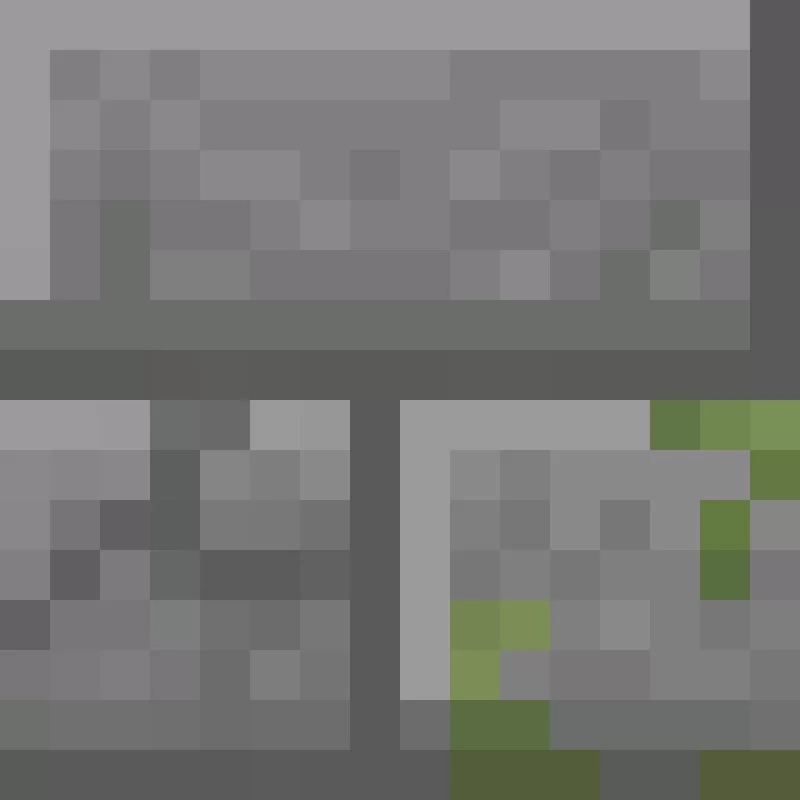
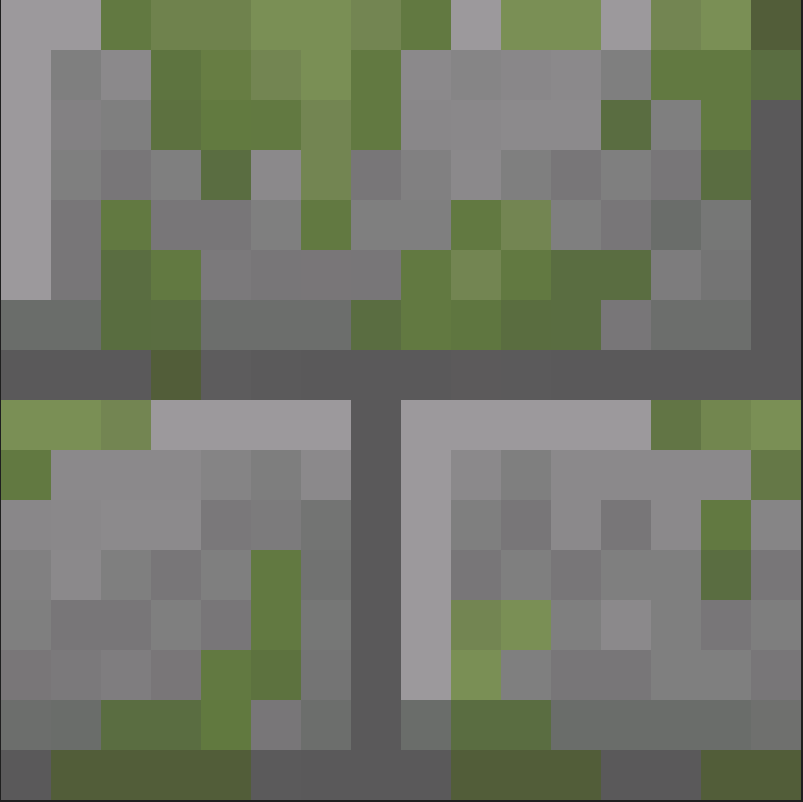
состояние рисуется поверх текстуры

diff --git a/src/jvmMain/kotlin/CellView.kt b/src/jvmMain/kotlin/CellView.kt
@@ -62,6 +62,12 @@ class CellView {
                 modifier = Modifier
                     .fillMaxSize()
             )
+            Box(
+                modifier = Modifier
+                    .matchParentSize()
+                    .background(getColor(cell))
+
+            ){}
             val size = min(maxWidth, maxHeight) * 0.3f
             when (cell.edge) {
                 Edge.START -> Icon (
@@ -162,26 +168,12 @@ class CellView {
     }
 
     private fun getColor (cell: Cell): Color {
-        val res: Long = when(cell.base){
-            Base.GRASS -> 0xff689808
-            Base.WATER -> 0xff88cffb
-            Base.STONE -> 0xff696969
+        return when(cell.status){
+            Status.CHECK -> Color(0x88696969)
+            Status.VIEWED -> Color(0xaa161616)
+            Status.PATH -> Color.Red
+            else -> Color(0x00000000)
         }
-        var cur = Color(res)
-        val average = (cur.red + cur.green + cur.blue)/3
-        cur = when(cell.status){
-            Status.CHECK -> {
-                changeColor(average, 3, 0.1.toFloat(), cur)
-            }
-            Status.VIEWED -> {
-                changeColor(average, 2, 0.15.toFloat(), cur)
-            }
-            Status.PATH -> {
-                Color.Red
-            }
-            else -> cur
-        }
-        return cur
     }
 
     private fun changeColor (average: Float, d: Int, coefficient: Float, cur: Color): Color {
